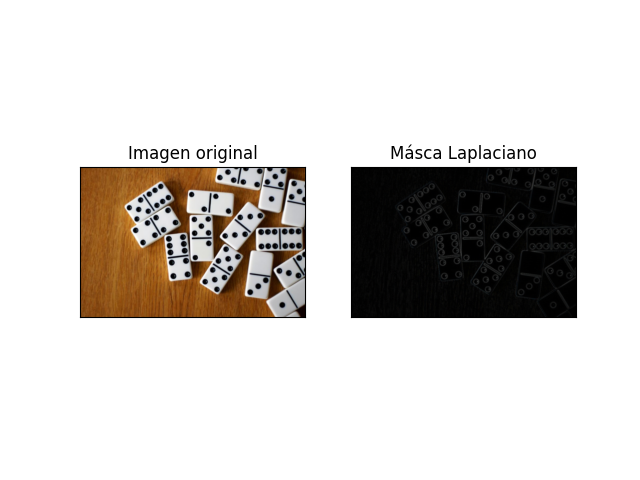
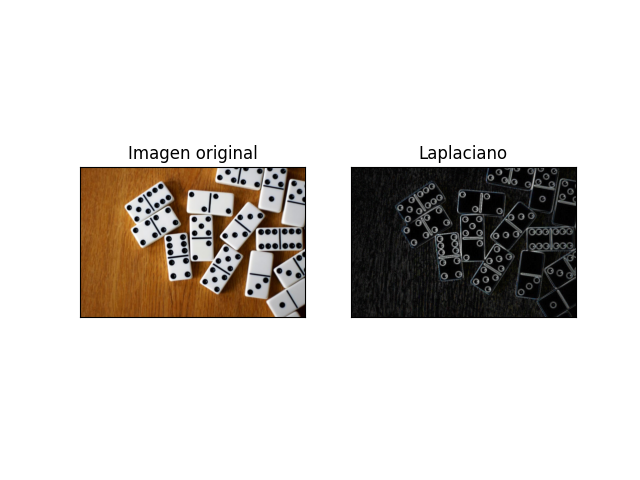
Laplaciano y todos juntos

Changed region(s): [[0.5938, 0.2812, 0.9062, 0.6562]]

diff --git a/filtros/edges.py b/filtros/edges.py
@@ -1,0 +1,89 @@
+import numpy as np
+import cv2
+import matplotlib.pyplot as plt
+import argparse
+
+# To execute .\edges.py -i IMAGEPATH
+
+# Argument parser.
+ap = argparse.ArgumentParser()
+ap.add_argument("-i", "--image", required=True,
+                help="Image path or name if in the same folder")
+args = vars(ap.parse_args())
+
+# Read the image and convert to grayscale
+image = cv2.imread(args["image"], 1)
+
+# Check if not exist
+if image is None:
+    print("Image not found")
+    exit(0)
+
+# Remove noise with gaussian blur
+image = cv2.GaussianBlur(image, (3, 3), 0)
+
+# Convert to RGB colors
+image = cv2.cvtColor(image, cv2.COLOR_BGR2RGB)
+
+# X & Y axis Roberts mask
+gx = np.array([[1, 0], [0, -1]])
+robertx = cv2.filter2D(image, -1, gx)
+gy = np.array([[0, 1], [-1, 0]])
+roberty = cv2.filter2D(image, -1, gy)
+robertxy = cv2.addWeighted(robertx, 0.5, roberty, 0.5, 0)
+
+
+# Sobel mask
+sobelx = cv2.Sobel(image, cv2.CV_16S, 1, 0, ksize=5)
+sobely = cv2.Sobel(image, cv2.CV_16S, 0, 1, ksize=5)
+abssobelx = cv2.convertScaleAbs(sobelx)
+abssobely = cv2.convertScaleAbs(sobely)
+grad = cv2.addWeighted(abssobelx, 0.5, abssobely, 0.5, 0)
+
+
+# X & Y axis Prewitt mask
+gx = np.array([[1, 1, 1], [0, 0, 0], [-1, -1, -1]], dtype=int)
+prewittx = cv2.filter2D(image, -1, gx)
+gy = np.array([[-1, 0, 1], [-1, 0, 1], [-1, 0, 1]], dtype=int)
+prewitty = cv2.filter2D(image, -1, gy)
+prewittxy = cv2.addWeighted(prewittx, 0.5, prewitty, 0.5, 0)
+
+
+# Laplacian
+aux = cv2.Laplacian(image, cv2.CV_16S, ksize=3)
+Laplaciano = cv2.convertScaleAbs(aux)
+
+# Original
+plt.subplot(2, 3, 1)
+plt.imshow(image)
+plt.title("Imagen original")
+plt.xticks([]), plt.yticks([])
+
+# Roberts
+plt.subplot(2, 3, 2)
+plt.imshow(robertxy)
+plt.title('Roberts')
+plt.xticks([]), plt.yticks([])
+
+# Sobel
+plt.subplot(2, 3, 3)
+plt.imshow(grad)
+plt.title('Sobel')
+plt.xticks([]), plt.yticks([])
+
+# Prewitt
+plt.subplot(2, 3, 4)
+plt.imshow(prewittxy)
+plt.title('Prewitt')
+plt.xticks([]), plt.yticks([])
+
+# Laplacian
+plt.subplot(2, 3, 5)
+plt.imshow(Laplaciano)
+plt.title('Laplaciano')
+plt.xticks([]), plt.yticks([])
+
+plt.show()
+
+cv2.waitKey(0)
+cv2.destroyAllWindows()

diff --git a/filtros/sobel.py b/filtros/sobel.py
@@ -22,18 +22,15 @@ if image is None:
 # Remove noise with gaussian blur
 image = cv2.GaussianBlur(image, (3, 3), 0)
 
-# Kernel size
-ksize = 5
-
 # Convolute kernel = 5x5
-sobelx = cv2.Sobel(image, cv2.CV_16S, 1, 0, ksize)  # x
-sobely = cv2.Sobel(image, cv2.CV_16S, 0, 1, ksize)  # y
+sobelx = cv2.Sobel(image, cv2.CV_16S, 1, 0, ksize=5)
+sobely = cv2.Sobel(image, cv2.CV_16S, 0, 1, ksize=5)
 
 # Convert to uint8
 abssobelx = cv2.convertScaleAbs(sobelx)
 abssobely = cv2.convertScaleAbs(sobely)
 
-# Gradient X &
+# Gradient X & Y
 grad = cv2.addWeighted(abssobelx, 0.5, abssobely, 0.5, 0)
 
 # Original

diff --git a/filtros/laplaciano.py b/filtros/laplaciano.py
@@ -23,11 +23,8 @@ if image is None:
 # Remove noise with gaussian blur
 image = cv2.GaussianBlur(image, (3, 3), 0)
 
-# Kernel size
-ksize = 3
-
 # Apply the laplacian mask
-aux = cv2.Laplacian(image, cv2.CV_16S, ksize)
+aux = cv2.Laplacian(image, cv2.CV_16S, ksize=3)
 Laplaciano = cv2.convertScaleAbs(aux)
 
 # Original
@@ -39,7 +36,7 @@ plt.xticks([]), plt.yticks([])
 # Blurred image
 plt.subplot(122)
 plt.imshow(Laplaciano)
-plt.title('Másca Laplaciano')
+plt.title('Laplaciano')
 plt.xticks([]), plt.yticks([])
 
 plt.show()
